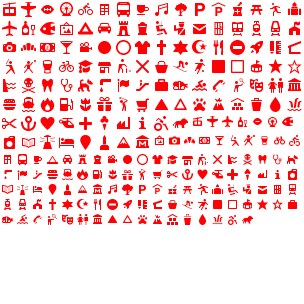
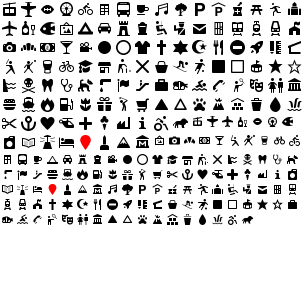
topographic elevation shown when click on button, make only select area markers red

Changed region(s): [[0.0, 0.0, 1.0, 0.7401]]

diff --git a/public/js/mainMap.js b/public/js/mainMap.js
@@ -99,7 +99,11 @@ function Map(loadJSONFunc) {
     this.tileJSON = null;
     this.clickLocationMarker = new mapboxgl.GeoJSONSource();
     this.selector = null;
-    this.popup = popup = new mapboxgl.Popup({
+    this.areaPopup = new mapboxgl.Popup({
+        closeButton: false,
+        closeOnClick: false
+    });
+    this.elevationPopup = new mapboxgl.Popup({
         closeButton: false,
         closeOnClick: false
     });
@@ -129,8 +133,8 @@ function Map(loadJSONFunc) {
         var feature = features[0];
         console.log(feature);
 
-        var lat = feature.geometry.coordinates[0];
-        var long = feature.geometry.coordinates[1];
+        var long = feature.geometry.coordinates[0];
+        var lat = feature.geometry.coordinates[1];
         var chunk = feature.properties.c;
         var pointNumber = feature.properties.p;
         var title = chunk.toString() + ":" + pointNumber.toString();
@@ -148,7 +152,7 @@ function Map(loadJSONFunc) {
                     "type": "Feature",
                     "geometry": {
                         "type": "Point",
-                        "coordinates": [lat, long]
+                        "coordinates": [long, lat]
                     },
                     "properties": {
                         "marker-symbol": "cross"
@@ -172,7 +176,7 @@ function Map(loadJSONFunc) {
                     "type": "Feature",
                     "geometry": {
                         "type": "Point",
-                        "coordinates": [lat, long]
+                        "coordinates": [long, lat]
                     },
                     "properties": {
                         "marker-symbol": "cross"
@@ -333,6 +337,19 @@ function Map(loadJSONFunc) {
                     chart: {
                         marginRight: 50
                     }
+                });
+
+                // request elevation of point from google api
+
+                var elevationGetter = new google.maps.ElevationService;
+                elevationGetter.getElevationForLocations({
+                    "locations": [{ lat: lat, lng: long }]
+                }, function(results, status) {
+                    that.elevationPopup.remove();
+
+                    that.elevationPopup.setLngLat(features[0].geometry.coordinates)
+                    .setHTML("Elevation: " + results[0].elevation + " meters")
+                    .addTo(that.map);
                 });
             });
         });
@@ -536,14 +553,17 @@ function Map(loadJSONFunc) {
             that.map.getCanvas().style.cursor = (features.length) ? 'pointer' : '';
 
             if (!features.length) {
-                that.popup.remove();
+                that.areaPopup.remove();
                 return;
             }
-            // if it's a select area marker
-            if (features[0].properties["marker-symbol"] != null) {              
-                // Populate the popup and set its coordinates
+            // if it's a select area marker, but not a selected point marker... I suppose this is hackish
+            // a better way is to have two mousemove callbacks like we do with select area vs select marker
+            var markerSymbol = features[0].properties["marker-symbol"];
+
+            if (markerSymbol != null && typeof markerSymbol != "undefined" && markerSymbol != "cross") {
+                // Populate the areaPopup and set its coordinates
                 // based on the feature found.
-                that.popup.setLngLat(features[0].geometry.coordinates)
+                that.areaPopup.setLngLat(features[0].geometry.coordinates)
                     .setHTML(features[0].properties.name)
                     .addTo(that.map);
             }

diff --git a/public/js/mainPage.js b/public/js/mainPage.js
@@ -192,7 +192,7 @@ function getGEOJSON(area) {
     //var tileJSON = {"minzoom":0,"maxzoom":14,"center":[130.308838,32.091882,14],"bounds":[130.267778,31.752321,131.191112,32.634544],"tiles":["http://localhost:8888/t/{z}/{x}/{y}.pbf"], "vector_layers":[]};
     //myMap.tileJSON = {"minzoom":0,"maxzoom":14,"center":[130.308838,32.091882,14],"bounds":[130.267778,31.752321,131.191112,32.634544],"tiles":["http://localhost:8888/" + area + "/{z}/{x}/{y}.pbf"], "vector_layers":[]};
     myMap.tileJSON = { "minzoom": 0, "maxzoom": 14, "center": [130.308838, 32.091882, 14], "bounds": [130.267778, 31.752321, 131.191112, 32.634544], "tiles": ["http://insarvmcsc431.cloudapp.net:8888/" + area.name + "/{z}/{x}/{y}.pbf"], "vector_layers": [] };
-    
+
     if (myMap.pointsLoaded()) {
         myMap.removePoints();
         myMap.removeTouchLocationMarker();
@@ -208,7 +208,7 @@ function getGEOJSON(area) {
 
     myMap.initLayer(myMap.tileJSON, "streets");
     myMap.map.style.on("load", function() {
-        window.setTimeout(function() {            
+        window.setTimeout(function() {
             myMap.map.flyTo({
                 center: [area.coords.latitude, area.coords.longitude],
                 zoom: 7

diff --git a/public/js/SquareSelector.js b/public/js/SquareSelector.js
@@ -95,11 +95,11 @@ function SquareSelector(map) {
             // get the names of all the layers
             var pointLayers = [];
             for (var i = 1; i < that.map.layers_.length; i++) {
-            	pointLayers.push(that.map.layers_[i].id);
+                pointLayers.push(that.map.layers_[i].id);
             }
             var features = that.map.map.queryRenderedFeatures(bbox, { layers: pointLayers });
             if (features.length == 0) {
-            	return;
+                return;
             }
 
             if (features.length >= 60000) {

diff --git a/public/css/mainPage.css b/public/css/mainPage.css
@@ -319,8 +319,8 @@ label {
 .overlay_toggle {
     display: inline-block;
     float: left;
-    height: 100px;
-    padding-top: 20px;
+    height: 40px;
+    width: 100%;
 }
 
 .toggle-button {

diff --git a/resources/views/map.blade.php b/resources/views/map.blade.php
@@ -9,50 +9,47 @@
  <script src="http://cdn.leafletjs.com/leaflet/v0.7.7/leaflet.js"></script>
  <script src='https://api.tiles.mapbox.com/mapbox-gl-js/v0.20.0/mapbox-gl.js'></script>
  <link href='https://api.tiles.mapbox.com/mapbox-gl-js/v0.20.0/mapbox-gl.css' rel='stylesheet' />
-    <!--<script src="https://code.jquery.com/jquery-1.12.0.min.js"></script>
-    <script type="text/javascript" src="jquery-2.2.2.min.js"></script>
-    <script src="https://code.jquery.com/jquery-migrate-1.2.1.min.js"></script>-->
-    <script src="https://code.jquery.com/jquery-1.12.2.js"></script>
-    <!--script src='/geojson-vt-dev.js'></script-->
-    <!--script type="text/javascript" src='scripts.js'></script-->
-    <link href="vendor/mapbox-gl-draw.css" rel="stylesheet" />    <script type="text/javascript" src="vendor/mapbox-gl-draw.js"></script>
-    <script type="text/javascript" src="js/regression.js"></script>
-    <script type="text/javascript" src="js/canvasjs.min.js"></script>
-    <!-- <script src="http://code.highcharts.com/highcharts.js"></script> -->
-    <script src="http://code.highcharts.com/stock/highstock.js"></script>
-    <script src="http://code.highcharts.com/stock/modules/exporting.js"></script>
+ 
+ <script src="https://code.jquery.com/jquery-1.12.2.js"></script>
+ 
+ <link href="vendor/mapbox-gl-draw.css" rel="stylesheet" />    <script type="text/javascript" src="vendor/mapbox-gl-draw.js"></script>
+ <script type="text/javascript" src="js/regression.js"></script>
+ <script type="text/javascript" src="js/canvasjs.min.js"></script>
+ 
+ <script src="http://code.highcharts.com/stock/highstock.js"></script>
+ <script src="http://code.highcharts.com/stock/modules/exporting.js"></script>
 
-    <script src="//rawgithub.com/phpepe/highcharts-regression/master/highcharts-regression.js"> </script>
-    <!--boostrap-->
-    <!-- Latest compiled and minified CSS -->
-    <link rel="stylesheet" href="https://maxcdn.bootstrapcdn.com/bootstrap/3.3.6/css/bootstrap.min.css" integrity="sha384-1q8mTJOASx8j1Au+a5WDVnPi2lkFfwwEAa8hDDdjZlpLegxhjVME1fgjWPGmkzs7" crossorigin="anonymous">
-    <!-- Latest compiled and minified JavaScript -->
-    <script src="https://maxcdn.bootstrapcdn.com/bootstrap/3.3.6/js/bootstrap.min.js" integrity="sha384-0mSbJDEHialfmuBBQP6A4Qrprq5OVfW37PRR3j5ELqxss1yVqOtnepnHVP9aJ7xS" crossorigin="anonymous"></script>
-    <script type="text/javascript" src="js/fuse.js"></script>
-    <script src='https://api.mapbox.com/mapbox-gl-js/plugins/mapbox-gl-geocoder/v1.0.0/mapbox-gl-geocoder.js'></script>
-    <link href='https://api.mapbox.com/mapbox-gl-js/plugins/mapbox-gl-geocoder/v1.0.0/mapbox-gl-geocoder.css' rel='stylesheet' />
-  </head>
-  <body>
-    <div id="map-container">
+ <script src="//rawgithub.com/phpepe/highcharts-regression/master/highcharts-regression.js"> </script>
+ <!--boostrap-->
+ <!-- Latest compiled and minified CSS -->
+ <link rel="stylesheet" href="https://maxcdn.bootstrapcdn.com/bootstrap/3.3.6/css/bootstrap.min.css" integrity="sha384-1q8mTJOASx8j1Au+a5WDVnPi2lkFfwwEAa8hDDdjZlpLegxhjVME1fgjWPGmkzs7" crossorigin="anonymous">
+ <!-- Latest compiled and minified JavaScript -->
+ <script src="https://maxcdn.bootstrapcdn.com/bootstrap/3.3.6/js/bootstrap.min.js" integrity="sha384-0mSbJDEHialfmuBBQP6A4Qrprq5OVfW37PRR3j5ELqxss1yVqOtnepnHVP9aJ7xS" crossorigin="anonymous"></script>
+ <script type="text/javascript" src="js/fuse.js"></script>
+ <script src='https://api.mapbox.com/mapbox-gl-js/plugins/mapbox-gl-geocoder/v1.0.0/mapbox-gl-geocoder.js'></script>
+ <link href='https://api.mapbox.com/mapbox-gl-js/plugins/mapbox-gl-geocoder/v1.0.0/mapbox-gl-geocoder.css' rel='stylesheet' />
+</head>
+<body>
+  <div id="map-container">
     <div id="map-type-menu">
       <input id='streets' type='radio' name='rtoggle' value='streets' checked="checked">
       <label for='streets'>streets</label>
       <input id='satellite' type='radio' name='rtoggle' value='satellite'>
       <label for='satellite'>satellite</label>
     </div>
-    </div>
-    <div class="side-bar">
-      <div class="side-item-box">
-        <!--div class="side-item move-button"></div-->
-        <div class="side-item title">
-          <h3>University of Miami’s inSAR Time Series Viewer</h3>
+  </div>
+  <div class="side-bar">
+    <div class="side-item-box">
+      <!--div class="side-item move-button"></div-->
+      <div class="side-item title">
+        <h3>University of Miami’s inSAR Time Series Viewer</h3>
+      </div>
+      <div class="overlay_toggle">
+        <label>Turn on/off data overlay</label>
+        <div id="overlay-toggle-button" class="toggle-button">
+          <button></button>
         </div>
-        <div class="overlay_toggle">
-          <label>Turn on/off data overlay</label>
-          <div id="overlay-toggle-button" class="toggle-button">
-            <button></button>
-          </div>
-        </div>
+      </div>
       <!--<div class="side-item description">
         <p>Description of inSAR map web application.</p>
       </div>-->
@@ -139,8 +136,6 @@
           <button></button>          
         </div>
       </div>
-      <br>
-      <br>
       <div>
         <button class="btn btn-primary-outline" id="popupButton">Select Dataset</button>
       </div>
@@ -153,14 +148,16 @@
     </div> <!-- End side-item-box -->
   </div> <!-- End side-bar -->
   <?php
-  echo "
-  <script type=\"text/javascript\">
-    var fileName = \"$fileName\";
-  </script>
-  ";
-  ?>
+    echo "
+      <script type=\"text/javascript\">
+        var fileName = \"$fileName\";
+      </script>
+      ";
+    ?>
   <script type="text/javascript" src="js/SquareSelector.js"></script>
   <script type="text/javascript" src="js/mainMap.js"></script>
   <script type="text/javascript" src="js/mainPage.js"></script>
+  <script src="https://maps.googleapis.com/maps/api/js"
+  async defer></script>
 </body>
 </html>
